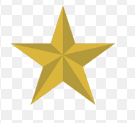
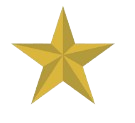
Built left column

diff --git a/movie.css b/movie.css
@@ -52,6 +52,7 @@ body {
   background-color: #fff;
   border-radius: 10px 0px 0px 10px;
   box-sizing: border-box;
+  margin: 10px;
 }
 
 #rating {
@@ -61,6 +62,7 @@ body {
   text-align: left;
   border-radius: 10px 0px 0px 0px;
   box-sizing: border-box;
+  margin-bottom: 20px;
 }
 
 #rating img {
@@ -83,12 +85,14 @@ body {
 .poster-item {
   text-align: center;
   width: calc(33.333% - 5px);
+  margin-bottom: 20px;
 }
 
 .poster-item img {
   width: 100%;
   height: auto;
   display: block;
+  border-radius: 10px;
 }
 
 .poster-item p {
@@ -98,31 +102,33 @@ body {
 }
 
 #reviews-container {
-  width: 64%;
-  background-image: url(assets/background.png);
-  background-repeat: repeat;
+  width: 94%;
+  gap: 2%;
+  background-color: #E1D697;
   padding: 8px;
   display: flex;
   flex-wrap: wrap;
   gap: 8px;
-  border-radius: 0px 10px 10px 0px;
+  border-radius: 10px;
   box-sizing: border-box;
+  margin: 10px;
 }
 
 .review-box {
-  width: 100%;
-  background-color: #E1D697;
-  border: 2px solid gray;
+  width: 47%;
+  background-color: white;
+  border-radius: 10px;
   padding: 8px;
   box-sizing: border-box;
   margin-bottom: 8px;
   position: relative;
   font-weight: bold;
   font-size: 8pt;
+  box-shadow: #2d2d2d 1px 1px 3px;
 }
 
 .review-box p {
-  margin: 3px 0;
+  margin: 10px 0;
 }
 
 .stars {
